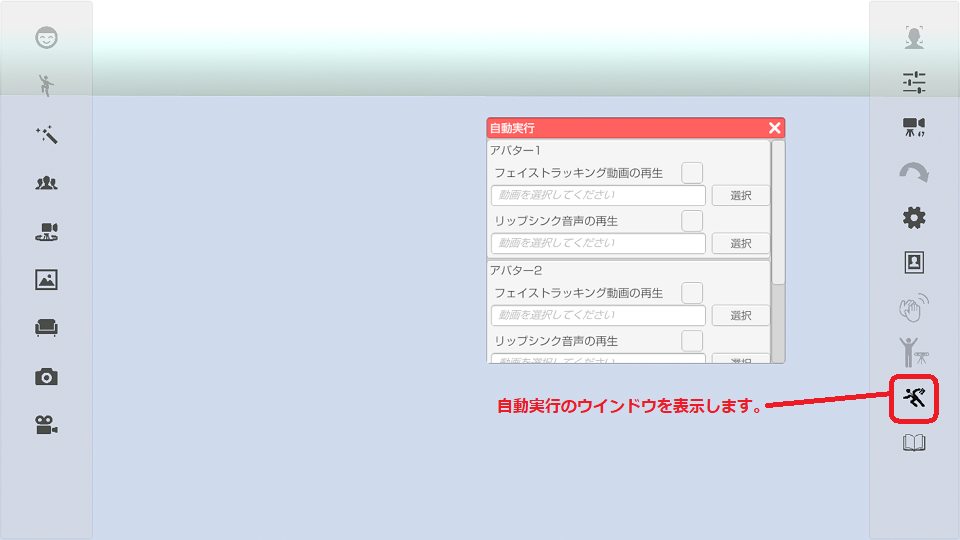
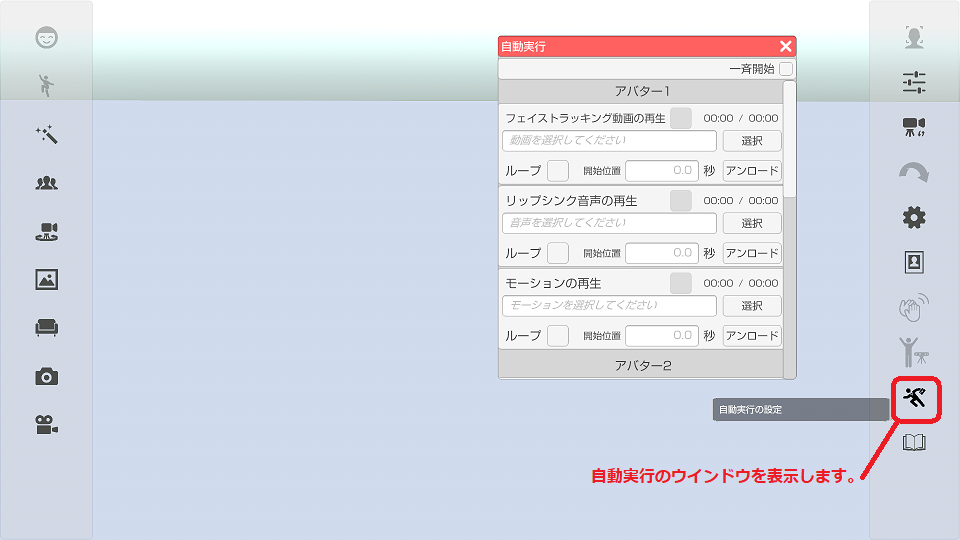
自動実行の説明を更新。

diff --git a/AutoRun.md b/AutoRun.md
@@ -16,7 +16,7 @@
 >4. トラッキングウインドウを開いてファイストラッキングの「開始」を実行する。
 >5. 右側メニューの下側に追加された自動実行アイコンでウインドウを開く。
 >6. 選択ボタンで動画ファイルを選択する。
->7. チェックボタンにチェックを付ける。（動画再生が開始されアバターが動きます。）
+>7. フェイストラッキング動画の再生にチェックを付ける。（動画再生が開始されアバターが動きます。）
 
 >※1 動画ファイルは mp4(H.264) に対応しています。(avi は対応していません。)
 >※2 動画ファイルは「顔」が中心で顔がなるべく大きく映っている必要があります。
@@ -26,11 +26,11 @@
 ### Wavファイルでリップシンク
 
 >1. 3teneSTUDIO を起動してアバターを読み込む。
->2. アバターの調整 → 「顔」タブ → リップシンク種類を「音声(ファイル)」に変更。
+>2. アバターの調整 → 「設定」タブ → リップシンク種類を「音声(ファイル)」に変更。
 >4. トラッキングウインドウを開いてリップシンクの「開始」を実行する。
 >5. 右側メニューの下側に追加された自動実行アイコンでウインドウを開く。
 >6. 選択ボタンでWaveファイルを選択する。
->7. チェックボタンにチェックを付ける。（音声再生が開始されアバターが動きます。）
+>7. リップシンク音声の再生にチェックを付ける。（音声再生が開始されアバターが動きます。）
 
 >※対応しているWaveファイルの仕様は下記になります。
 
@@ -38,5 +38,17 @@
 >サンプリング周波数： 22050 Hz 以上
 >量子化ビット数： 16 bit のみ。
 >チャンネル数： モノラル(1ch)、ステレオ(2ch)
+
+
+### BVHファイルでモーション
+
+>1. 3teneSTUDIO を起動してアバターを読み込む。
+>2. 右側メニューの下側に追加された自動実行アイコンでウインドウを開く。
+>3. 選択ボタンで BVH ファイルを選択する。
+>4. モーションの再生にチェックを付ける。（アバターが動きます。）
+
+>※ファイル選択後にアバターの調整で位置を変更した場合は
+>　モーションをアンロードして再度選択し、再読み込みしてください。
+
 
 
